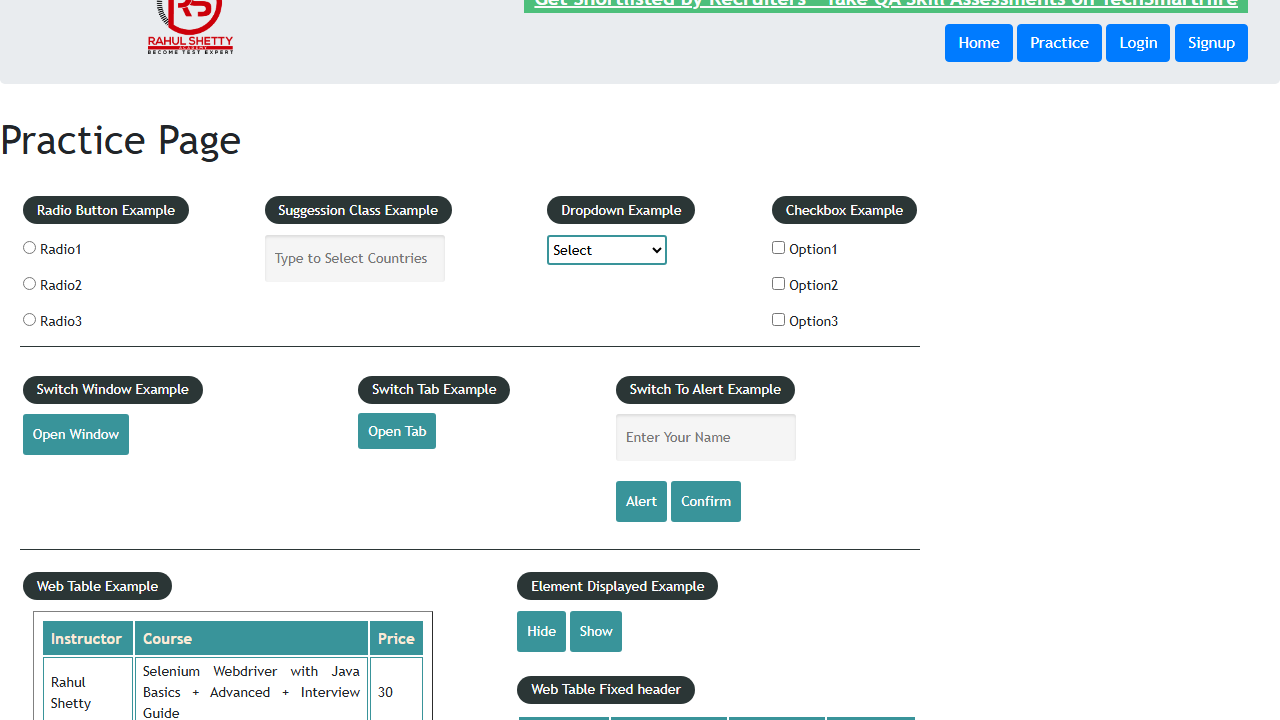
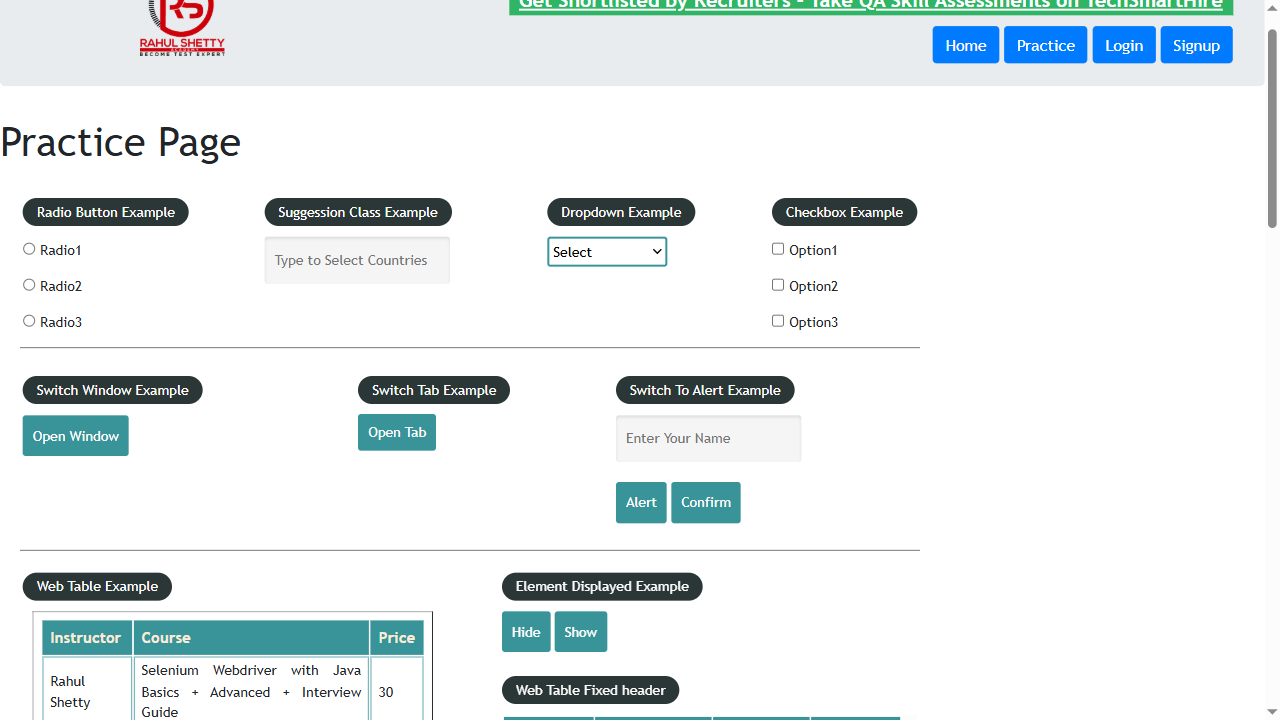
modified feature file and png

diff --git a/features/step_definitions/steps.js b/features/step_definitions/steps.js
@@ -1,24 +1,20 @@
 const {When,Then,Given} = require('@cucumber/cucumber');
-const { POManager } = require('../..pageobjects/POManager');
-const {test, expect,playwright}= require ('@playwright/test');
+const { POManager } = require('../../pageobjects/POManager');
+const { expect } = require('@playwright/test');
+const { chromium } = require('playwright');
 
-
-Given('alogin to the Ecommerce application with {username} and  {password}', async function (username, password) {
-  // Write code here that turns the phrase above into concrete actions
-    const browser = await playwright.chromium.launch();
-    const context=await browser.newContext();
-    const page =await context.newPage();
-    const poManager = new POManager(page);
-    const loginPage = poManager.getLoginPage();
-    await loginPage.goTO();
-    await loginPage.validLogin(data.username, data.password);
+Given('alogin to the Ecommerce application with {string} and  {string}', async function (username, password) {
+  const browser = await chromium.launch();
+  const context = await browser.newContext();
+  const page = await context.newPage();
+  this.poManager = new POManager(page);
+  const loginPage = this.poManager.getLoginPage();
+  await loginPage.goTO();
+  await loginPage.validLogin(username, password);
 });
 
-
-
-When('Add {string} to Cart', function (string) {
-  // Write code here that turns the phrase above into concrete actions
-  const dashboardPage = poManager.getDashboardPage();
-        await dashboardPage.searchProductAddCart(data.productNames);
-        await dashboardPage.navigateToCart();
+Then('Add {string} to Cart', async function (productName) {
+  this.dashboardPage = this.poManager.getDashboardPage();
+  await this.dashboardPage.searchProductAddCart(productName);
+  await this.dashboardPage.navigateToCart();
 });